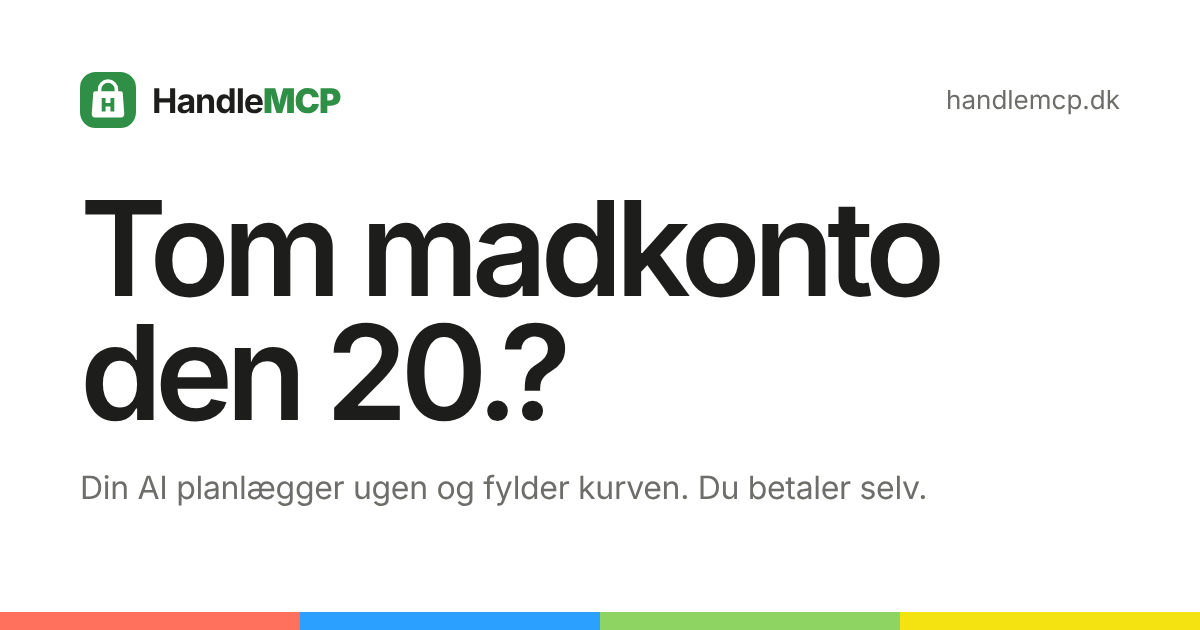
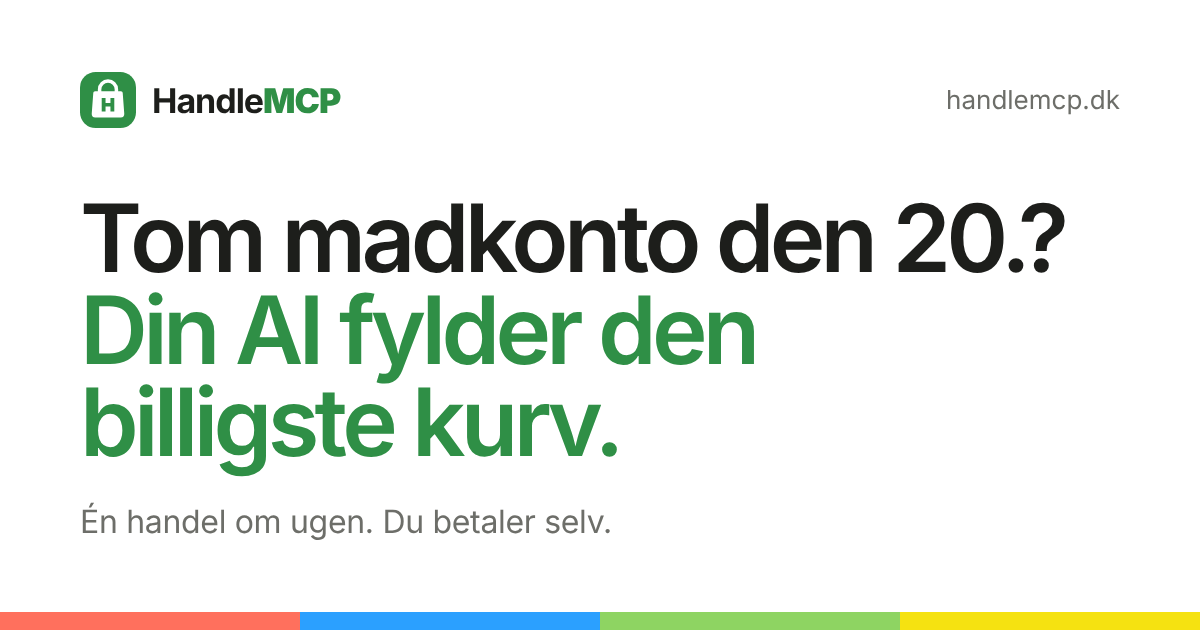
🔍 Put pain and fix in the share image headline

Changed region(s): [[0.0617, 0.3016, 0.8942, 0.8746]]

diff --git a/docs/index.html b/docs/index.html
@@ -17,7 +17,7 @@
 <meta property="og:image" content="https://handlemcp.dk/og.png">
 <meta property="og:image:width" content="1200">
 <meta property="og:image:height" content="630">
-<meta property="og:image:alt" content="HandleMCP. Tom madkonto den 20.? Din AI planlægger ugen og fylder kurven. Du betaler selv.">
+<meta property="og:image:alt" content="HandleMCP. Tom madkonto den 20.? Din AI fylder den billigste kurv. Én handel om ugen. Du betaler selv.">
 <meta name="twitter:card" content="summary_large_image">
 <meta name="twitter:title" content="HandleMCP: tom madkonto den 20.?">
 <meta name="twitter:description" content="Én handel om ugen. Et budget der holder. Din AI planlægger og fylder kurven, du betaler selv.">
